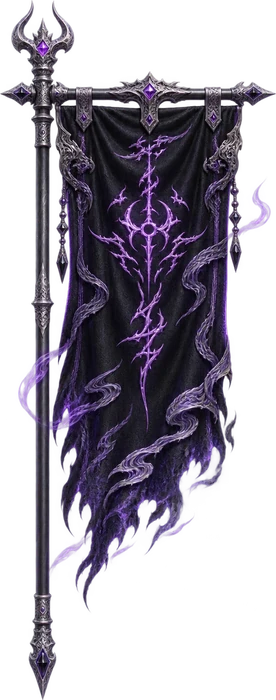
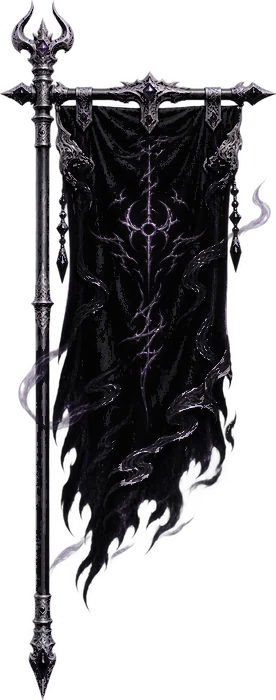
fix(skin): U Minh đen hơn tím, Nữ Oa thêm hiệu ứng + vết nứt trời mới; mặc vào bùng ĐỦ lớp; tiên nhân lúc mở bán không delay
Chủ game xem 2 skin mới:
- U Minh Ma Đế: hạ tím ảnh đứng/ngồi/hào quang/cờ (gốc ở data/backups/u-minh-orig-20261121), khói đen đặc hơn,
  quầng tím trầm + nhạt, hắc viêm lõi đen to hơn; thêm CỘT MA KHÍ ĐEN bốc sau lưng + sương đen bò sát chân.
- Nữ Oa: thêm NGŨ SẮC THẠCH bay vòng quanh đầu, GIỌT NƯỚC xoắn bay lên, CẦU VỒNG BỔ THIÊN quét ~9 s/lần, sao nháy.
  Vết nứt trời màn biến hình: bỏ khối đen hình chữ M (trông như dơi) → vết nứt mảnh, lòng sáng, nhánh rẽ, toác từ giữa.
- Mặc vào thiếu hiệu ứng (Tinh Hà, Bích Lân…): sân ≥15 người budget 'light' → skin luôn vẽ bản rút gọn kể cả lúc bùng.
  Nay trong 8 s bùng vẽ đủ lớp; chỉ rút gọn khi FPS thật tụt (pressured) hoặc sân >30. Nhịp bùng 8 s/nghỉ 32 s giữ nguyên.
- Lúc MỞ BÁN: tiên nhân Khuy Niết/Tư Đồ/Tần Mục/Hải Lam dùng chung nhịp bùng của người mặc → hiệu ứng tắt 32 s/40 s.
  drawOneVisitor bọc withFullFx → hiệu ứng liên tục (1–3 vị, không nặng).
QA: scripts/qa-skin-worn.mjs (server thử 4399: 4 người mặc skin, chụp 40 s + tiên nhân 2–30 s), 1034/1035 test
(1 test đo giờ alchemy đỏ lúc máy bận, chạy riêng đạt).

diff --git a/public/nu-oa-fx.js b/public/nu-oa-fx.js
@@ -106,6 +106,28 @@ function pearls(c,t,stand,layer,alpha,count=6){for(let i=0;i<count;i++){const a=
 function flowers(c,t,count,width,height,alpha,seed=0){
  for(let i=0;i<count;i++){const u=(i*.618+(t+seed)*.0001)%1,x=Math.sin(i*2.399+u*3)*width*(.4+.6*((i*.37)%1))+Math.sin(t*.0012+i)*8,y=-height+u*(height+22),a=Math.sin(u*Math.PI)*alpha,s=4+(i%3)*1.6;
   if(a<.04)continue;c.save();c.globalAlpha*=a*.9;c.translate(x,y);c.rotate(t*.0008+i);c.scale(1,.55+.45*Math.abs(Math.sin(t*.0015+i)));c.drawImage(flowerArt(),-s,-s,2*s,2*s);c.restore();}}
+// 21/11 (chủ game: "skin nữ hơi ít hiệu ứng") — thêm 4 lớp theo đúng chủ đề Vá Trời / nước:
+// NGŨ SẮC THẠCH: 5 viên đá vá trời bay vòng quanh đầu (che khuất trước/sau), đuôi sáng đúng màu.
+function fiveStones(c,t,stand,layer,alpha,light=false){const hy=HALO_Y(stand),tr=light?2:5;
+ for(let i=0;i<5;i++){const at=tt=>{const a=tt*.0007+i*TAU/5;return {x:Math.cos(a)*(52+stand*6),y:hy+8+Math.sin(a)*10+Math.sin(tt*.0013+i)*5,z:Math.sin(a)};};
+  const p=at(t);if((p.z>0)!==(layer==='front'))continue;const k=.75+.25*p.z;
+  for(let j=tr;j>=1;j--){const q=at(t-j*60);glow(c,stoneArt(STONES[i]),q.x-4*k,q.y-4*k,8*k,8*k,alpha*.5*(1-j/(tr+1)));}
+  glow(c,stoneArt(STONES[i]),p.x-8*k,p.y-8*k,16*k,16*k,alpha*(.8+.2*Math.sin(t*.004+i)));glow(c,lightArt(),p.x-2.5,p.y-2.5,5,5,alpha*.9);}}
+// GIỌT NƯỚC xoắn ốc từ mặt nước bay lên rồi tan thành bụi sáng.
+function droplets(c,t,stand,layer,alpha,count=10){const top=HALO_Y(stand)+10;
+ for(let i=0;i<count;i++){const u=((t*.00025)+i/count)%1,a=u*TAU*1.6+i*1.7,z=Math.sin(a);if((z>0)!==(layer==='front'))continue;
+  const R=36-u*14,x=Math.cos(a)*R,y=22+(top-22)*u,s=2.6+(1-u)*1.6,f=Math.sin(u*Math.PI);
+  glow(c,aquaArt(),x-s*1.6,y-s*1.6,s*3.2,s*3.2,alpha*f*.9);img(c,pearlArt(),x-s/2,y-s/2,s,s,alpha*f*.8);}}
+// CẦU VỒNG BỔ THIÊN: ~9 s một lần, cung ngũ sắc quét sau hào quang rồi tan (bùng theo nhịp, không liên tục).
+function rainbowSweep(c,t,stand,alpha){const P=9000,u=(t%P)/P;if(u>.32)return;const k=u/.32,hy=HALO_Y(stand),R=50+stand*8,a=alpha*Math.sin(k*Math.PI);
+ c.save();c.globalCompositeOperation='lighter';c.lineCap='round';
+ STONES.forEach((col,i)=>{c.globalAlpha=a*.55;c.strokeStyle=col;c.lineWidth=2.2;c.beginPath();c.arc(0,hy+12,R+i*3,Math.PI*(1.05+0),Math.PI*(1.05+.9*ease(k*1.4)));c.stroke();});
+ c.restore();
+ const e=Math.PI*(1.05+.9*ease(k*1.4)),hx=Math.cos(e)*(R+6),hyy=hy+12+Math.sin(e)*(R+6);spin(c,sparkArt(),hx,hyy,18,t*.004,a,true);}
+// SAO NHÁY quanh đầu.
+function twinkles(c,t,stand,alpha,count=7,seed=0){const hy=HALO_Y(stand);
+ for(let i=0;i<count;i++){const P=2200+i*310,u=((t+seed*13+i*700)%P)/P;if(u>.35)continue;const f=Math.sin(u/.35*Math.PI),x=Math.sin(i*2.7+seed)*70,y=hy-30+Math.cos(i*1.9)*50;
+  spin(c,sparkArt(),x,y,6+8*f,i,alpha*f,true);}}
 function chestLotus(c,t,stand,alpha){const y=CHEST_Y(stand),p=.8+.2*Math.sin(t*.003);glow(c,violetArt(),-12*p,y-12*p,24*p,24*p,alpha*.5);glow(c,lightArt(),-5,y-5,10,10,alpha*.6);}
 // BỔ THIÊN LINH CHÂU: quầng tím hồng thở, tia điện nhỏ, dòng nước quấn quanh (sau/trước cầu).
 function orb(c,a,t,x,y,{alpha=1,motion=true,size=1,light=false}={}){
@@ -124,12 +146,15 @@ export function drawNuOaAura(c,t,stand,layer,{motion=true,light=false,seed=0}={}
  if(layer==='back'){
   img(c,darkArt(),-85,hy-70,170,200,.68);
   aurora(c,time,hy+30,200,140+stand*20,motion?.9:.6,light?8:16);
-  if(motion){ribbon(c,time,stand,'back',0,1,light?16:36);if(!light)ribbon(c,time,stand,'back',Math.PI,.8,36);waterRings(c,time,stand,'back',1,light?2:3);pearls(c,time,stand,'back',1,light?4:6);}
+  if(motion){if(!light)rainbowSweep(c,time+seed*31,stand,1);ribbon(c,time,stand,'back',0,1,light?16:36);if(!light)ribbon(c,time,stand,'back',Math.PI,.8,36);waterRings(c,time,stand,'back',1,light?2:3);pearls(c,time,stand,'back',1,light?4:6);
+   fiveStones(c,time,stand,'back',1,light);droplets(c,time,stand,'back',1,light?4:10);}
  }else if(motion){
+  droplets(c,time,stand,'front',1,light?4:10);
   waterRings(c,time,stand,'front',1,light?2:3);
   ribbon(c,time,stand,'front',0,1,light?16:36);if(!light)ribbon(c,time,stand,'front',Math.PI,.8,36);
   pearls(c,time,stand,'front',1,light?4:6);chestLotus(c,time,stand,light?.6:1);
   flowers(c,time,light?5:14,64,130+stand*30,1,seed);
+  fiveStones(c,time,stand,'front',1,light);if(!light)twinkles(c,time,stand,1,7,seed);
  }
 }
 // Gear (luôn hiện với người sở hữu): mặt nước + sen · hào quang trăng · Bổ Thiên Linh Châu.
@@ -141,19 +166,31 @@ export function drawNuOaGear(c,a,t,pose,layer,{motion=true,light=false}={}){
 
 const hash=s=>{let h=0;for(const ch of String(s||''))h=(h*31+ch.codePointAt(0))%9973;return h;};
 // 5 vết nứt trời: vị trí + đường gấp khúc (theo seed).
+// 21/11 (chủ game xem: khe nứt cũ là khối đen dày hình chữ M → trông như đàn dơi): nay là VẾT NỨT MẢNH, dài, nghiêng khác nhau,
+// lòng khe là ánh sáng (trời rách lộ ánh tím trắng), có nhánh rẽ; toác dần từ giữa ra hai đầu.
 function rifts(seed,stand){const key='rf'+seed%5+'-'+(stand>.5?1:0);if(art[key])return art[key];const r=rng(seed+5),hy=HALO_Y(stand),L=[];
- for(let i=0;i<5;i++){const cx=(i-2)*38+(r()-.5)*10,cy=hy-78-Math.abs(i-2)*-10-(i%2)*18+(r()-.5)*8,pts=[];let x=cx-20,y=cy+(r()-.5)*6;
-  for(let j=0;j<7;j++){pts.push([x,y]);x+=40/6;y+=(r()-.5)*12;}L.push({cx,cy,pts});}
+ for(let i=0;i<5;i++){const cx=(i-2)*44+(r()-.5)*12,cy=hy-70-(2-Math.abs(i-2))*16-(r())*14,ang=(r()-.5)*1.1+(i-2)*.18,len=46+r()*26,n=13,pts=[];
+  const ca=Math.cos(ang),sa=Math.sin(ang);
+  for(let j=0;j<n;j++){const s=j/(n-1)-.5,off=(r()-.5)*7*(j%2?1:.6);pts.push([cx+ca*s*len-sa*off,cy+sa*s*len+ca*off]);}
+  const br=[];for(let b=0;b<3;b++){const j=2+Math.floor(r()*(n-4)),side=r()<.5?-1:1,bl=8+r()*12,ba=ang+side*(.7+r()*.6);br.push({j,dx:Math.cos(ba)*bl,dy:Math.sin(ba)*bl,kx:(r()-.5)*4,ky:(r()-.5)*4});}
+  L.push({cx,cy,pts,br});}
  return art[key]=L;}
 function drawRift(c,R,open,heal,col){if(open<=0||heal>=1)return;const P=R.pts,n=P.length,a=1-heal,mid=(n-1)/2;
- // khe toác: mép trên/dưới lệch theo bề dày (giữa dày, hai đầu nhọn) × độ mở
- const w=j=>(1-Math.abs(j-mid)/mid)**.8*6*open*(j%2?.7:1),up=P.map(([x,y],j)=>[x,y-w(j)]),dn=P.map(([x,y],j)=>[x,y+w(j)*.8]).reverse(),poly=[...up,...dn];
+ // toác từ giữa ra: đoạn hiện = |j-mid| ≤ open*mid; bề dày giữa ≤2,2
+ const reach=open*mid+.5,vis=P.filter((_,j)=>Math.abs(j-mid)<=reach);if(vis.length<2)return;
+ const w=j=>Math.max(.15,(1-Math.abs(j-mid)/mid))**.9*2.2*open;
+ const idx=P.map((_,j)=>j).filter(j=>Math.abs(j-mid)<=reach);
+ const up=idx.map(j=>[P[j][0],P[j][1]-w(j)]),dn=idx.map(j=>[P[j][0],P[j][1]+w(j)]).reverse(),poly=[...up,...dn];
  const path=()=>{c.beginPath();poly.forEach(([x,y],i)=>c[i?'lineTo':'moveTo'](x,y));c.closePath();};
- glow(c,violetArt(),R.cx-34,R.cy-18,68,36,a*.7*open);
- c.save();c.globalAlpha=a;path();c.fillStyle='#05010f';c.fill();
- c.globalCompositeOperation='lighter';c.lineJoin='round';c.strokeStyle='#a060ff';c.lineWidth=2.4;c.globalAlpha=a*.75;path();c.stroke();c.strokeStyle='#f4e8ff';c.lineWidth=.8;c.globalAlpha=a;path();c.stroke();
- // nhánh nứt nhỏ từ mép
- c.strokeStyle='#c090ff';c.lineWidth=.8;c.globalAlpha=a*.8*open;for(let j=1;j<n-1;j+=2){const [x,y]=P[j],d=j%4===1?-1:1;c.beginPath();c.moveTo(x,y+d*w(j)*.8);c.lineTo(x+4,y+d*(w(j)+5));c.lineTo(x+2,y+d*(w(j)+9));c.stroke();}
+ const line=()=>{c.beginPath();idx.forEach((j,i)=>c[i?'lineTo':'moveTo'](P[j][0],P[j][1]));};
+ glow(c,violetArt(),R.cx-30,R.cy-16,60,32,a*.45*open);
+ c.save();c.lineJoin='round';c.lineCap='round';
+ c.globalAlpha=a*.85;path();c.fillStyle='#1a0838';c.fill(); // mép rách tối mảnh
+ c.globalCompositeOperation='lighter';c.strokeStyle='#8a50ff';c.lineWidth=3.2*open;c.globalAlpha=a*.35;line();c.stroke(); // quầng
+ c.strokeStyle='#e8d8ff';c.lineWidth=1.1*open+.3;c.globalAlpha=a;line();c.stroke(); // lòng khe sáng
+ c.strokeStyle='#ffffff';c.lineWidth=.45;c.globalAlpha=a*open;line();c.stroke();
+ // nhánh rẽ
+ c.strokeStyle='#c8a8ff';c.lineWidth=.7;c.globalAlpha=a*.85*clamp((open-.4)/.6);for(const b of R.br){if(Math.abs(b.j-mid)>reach)continue;const [x,y]=P[b.j];c.beginPath();c.moveTo(x,y);c.lineTo(x+b.dx*.55+b.kx,y+b.dy*.55+b.ky);c.lineTo(x+b.dx,y+b.dy);c.stroke();}
  c.restore();
  if(heal>0)glow(c,stoneArt(col),R.cx-40*(1-heal*.4),R.cy-40*(1-heal*.4),80*(1-heal*.4),80*(1-heal*.4),Math.sin(heal*Math.PI)*1.2);
 }

diff --git a/public/u-minh-fx.js b/public/u-minh-fx.js
@@ -27,16 +27,17 @@ const rng=seed=>{let s=seed%2147483647||7;return ()=>((s=s*16807%2147483647)-1)/
 
 function surface(w,h,draw){const canvas=makeSurface(w,h);if(!canvas)return null;draw(canvas.getContext('2d'),w/2,h/2);return canvas;}
 function radial(size,stops){return surface(size,size,(c,r)=>{const g=c.createRadialGradient(r,r,1,r,r,r);for(const [at,color] of stops)g.addColorStop(at,color);c.fillStyle=g;c.fillRect(0,0,size,size);});}
-const smokeArt=()=>art.smoke??=radial(128,[[0,'#06000ee0'],[.45,'#12021e90'],[1,'#00000000']]);
-const violetArt=()=>art.violet??=radial(128,[[0,'#f0d8ffe0'],[.3,'#b060ff90'],[.65,'#6a20c038'],[1,'#30087000']]);
+// 21/11 (chủ game: "màu đen phải nhiều hơn màu tím"): khói đặc + đen hơn, quầng tím trầm + nhạt hơn; ảnh skin/hào quang/cờ đã hạ tím (bản gốc ở data/backups/u-minh-orig-20261121).
+const smokeArt=()=>art.smoke??=radial(128,[[0,'#000000f4'],[.45,'#05000ac0'],[.8,'#02000440'],[1,'#00000000']]);
+const violetArt=()=>art.violet??=radial(128,[[0,'#d8b0ffc0'],[.3,'#7a30d070'],[.65,'#3a0a7a28'],[1,'#1a043800']]);
 const coreArt=()=>art.core??=radial(64,[[0,'#ffffff'],[.3,'#e0b8ff'],[.7,'#9040ff60'],[1,'#6020c000']]);
 const sparkArt=()=>art.spark??=surface(64,64,(c,r)=>{c.translate(r,r);
  for(const [w,h] of [[28,2.2],[2.2,28]]){const g=c.createRadialGradient(0,0,0,0,0,28);g.addColorStop(0,'#ffffff');g.addColorStop(.4,'#d8a8ffa0');g.addColorStop(1,'#9040ff00');c.fillStyle=g;c.beginPath();c.ellipse(0,0,w,h,0,0,TAU);c.fill();}
  const g=c.createRadialGradient(0,0,0,0,0,9);g.addColorStop(0,'#ffffff');g.addColorStop(1,'#ffffff00');c.fillStyle=g;c.beginPath();c.arc(0,0,9,0,TAU);c.fill();});
 // Lưỡi hắc viêm: viền tím sáng, lõi đen (vẽ thường, không cộng sáng → lửa ĐEN).
 const flameArt=()=>art.flame??=surface(32,64,(c)=>{const tongue=(s,col)=>{c.beginPath();c.moveTo(16,62);c.bezierCurveTo(16-13*s,52,16-9*s,26,16+2*s,4+ (1-s)*20);c.bezierCurveTo(16+6*s,24,16+13*s,46,16,62);c.closePath();c.fillStyle=col;c.fill();};
- const g=c.createLinearGradient(0,64,0,0);g.addColorStop(0,'#c070ffe0');g.addColorStop(.6,'#8a30ffb0');g.addColorStop(1,'#b070ff00');tongue(1,g);
- const k=c.createLinearGradient(0,64,0,10);k.addColorStop(0,'#05000af0');k.addColorStop(.7,'#12022af0');k.addColorStop(1,'#20063a00');tongue(.62,k);});
+ const g=c.createLinearGradient(0,64,0,0);g.addColorStop(0,'#9a50e0c0');g.addColorStop(.6,'#5a1aa090');g.addColorStop(1,'#40108000');tongue(1,g);
+ const k=c.createLinearGradient(0,64,0,10);k.addColorStop(0,'#000000fa');k.addColorStop(.7,'#06000ef4');k.addColorStop(1,'#10031c00');tongue(.8,k);});
 // Mắt xích (1 mắt dẹt nhìn thẳng): khung kim loại tối + vệt sáng tím.
 const linkArt=()=>art.link??=surface(24,14,(c)=>{c.lineWidth=3;c.strokeStyle='#241c30';c.beginPath();c.ellipse(12,7,9.5,4.5,0,0,TAU);c.stroke();c.lineWidth=1;c.strokeStyle='#c8a0ffd0';c.beginPath();c.ellipse(12,6.4,9.5,4.3,0,Math.PI*1.1,Math.PI*1.9);c.stroke();});
 const emberArt=()=>art.ember??=radial(16,[[0,'#ffffff'],[.3,'#d090ff'],[1,'#8020ff00']]);
@@ -66,7 +67,7 @@ function haloLayer(c,a,t,cy,width,{alpha=1,pulse=0,motion=true}={}){
  if(!a?.halo)return;const k=1+pulse+(motion?Math.sin(t*.0019)*.014:0),w=width*k,h=w*a.halo.naturalHeight/a.halo.naturalWidth;
  img(c,smokeArt(),-w*.55,cy-w*.55,w*1.1,w*1.1,.3*alpha);
  c.save();c.translate(0,cy);c.rotate(motion?-t*.00005:0);img(c,a.halo,-w*UM_RING.x,-h*UM_RING.y,w,h,alpha);c.restore();
- glow(c,violetArt(),-w*.42,cy-w*.42,w*.84,w*.84,alpha*(motion?.22+.14*Math.sin(t*.011)*Math.sin(t*.0037):.25));
+ glow(c,violetArt(),-w*.42,cy-w*.42,w*.84,w*.84,alpha*(motion?.08+.06*Math.sin(t*.011)*Math.sin(t*.0037):.1));
 }
 // U MINH MÔN: hố đen + viền tím + hạt sáng xoáy HÚT vào tâm.
 function abyssGate(c,t,width,alpha,{motion=true,light=false}={}){
@@ -82,7 +83,7 @@ function abyssGate(c,t,width,alpha,{motion=true,light=false}={}){
 function blackFlames(c,t,layer,alpha,count=10,spread=40,scale=1){
  for(let i=0;i<count;i++){const ang=i/count*TAU+Math.sin(i*1.7)*.3,front=Math.sin(ang)>0;if(front!==(layer==='front'))continue;
   const per=1300+i*170,u=((t+i*397)%per)/per,life=Math.sin(u*Math.PI),x=Math.cos(ang)*spread,y=22+Math.sin(ang)*spread*.26,h=(18+(i%3)*8)*scale*(.5+.7*life),w=h*.5,sk=Math.sin(t*.006+i)*.2;
-  glow(c,violetArt(),x-w,y-h*.8,w*2,h,alpha*life*.35);c.save();c.globalAlpha*=alpha*Math.min(1,life*1.6);c.translate(x,y);c.transform(1,0,sk,1,0,0);c.drawImage(flameArt(),-w/2,-h,w,h);c.restore();}
+  glow(c,violetArt(),x-w,y-h*.8,w*2,h,alpha*life*.12);c.save();c.globalAlpha*=alpha*Math.min(1,life*1.6);c.translate(x,y);c.transform(1,0,sk,1,0,0);c.drawImage(flameArt(),-w/2,-h,w,h);c.restore();}
 }
 // XÍCH U MINH: mắt xích đặt dọc xoắn ốc; mắt chẵn nằm dẹt, mắt lẻ xoay cạnh (co ngang) → giống xích thật.
 function chainHelix(c,t,stand,layer,alpha,ph=0,links=46){
@@ -101,6 +102,12 @@ function wisps(c,t,stand,alpha,count=4,light=false){
  for(let i=0;i<count;i++){for(let j=light?3:7;j>=0;j--){const p=wispPos(t-j*45,i,stand,bx,by),s=j?4.5*(1-j/9):6.5;glow(c,j?violetArt():coreArt(),p.x-s,p.y-s,2*s,2*s,alpha*p.a*(j?.7*(1-j/8):1));}
   const u=wispPos(t,i,stand,bx,by).u;if(u>.92)pull=Math.max(pull,(u-.92)/.08);}
  return pull;}
+// 21/11: CỘT MA KHÍ ĐEN — cụm khói đen bốc từ chân lên quá đầu sau lưng (vẽ thường → đen thật, không cộng sáng).
+function blackPlume(c,t,stand,alpha,count=9){const top=HALO_Y(stand)-70;
+ for(let i=0;i<count;i++){const u=((t*.00018)+i/count)%1,x=Math.sin(i*2.1+u*4+t*.0004)*(22+u*30),y=20+(top-20)*u,s=40+u*70,a=alpha*Math.sin(u*Math.PI)**.7;img(c,smokeArt(),x-s/2,y-s/2,s,s,a*.75);}}
+// Sương đen bò sát đất phía trước chân (che mép dưới áo → người như đứng trong ma vụ).
+function groundFog(c,t,alpha,count=6){for(let i=0;i<count;i++){const u=((t*.00012)+i/count)%1,x=(u-.5)*150*(i%2?1:-1),s=46+Math.sin(u*Math.PI)*24;
+ c.save();c.translate(x,24);c.scale(1,.38);img(c,smokeArt(),-s/2,-s/2,s,s,alpha*Math.sin(u*Math.PI)*.8);c.restore();}}
 function embers(c,t,count,width,height,alpha){for(let i=0;i<count;i++){const u=(i*.618+t*.00022)%1,x=Math.sin(i*2.4+u*5)*width*(.5+.5*((i*.37)%1)),y=20-u*height,a=Math.sin(u*Math.PI)*alpha;glow(c,emberArt(),x-1.6,y-1.6,3.2,3.2,a);}}
 // VẠN HỒN PHIÊN: cán đứng yên; vải cắt dải ngang, lệch sóng (đuôi bay nhiều hơn phần gần thanh ngang).
 function banner(c,a,t,stand,{alpha=1,motion=true,rise=0,light=false,pull=0}={}){
@@ -114,18 +121,19 @@ function banner(c,a,t,stand,{alpha=1,motion=true,rise=0,light=false,pull=0}={}){
  for(let r=0;r<rows;r++){const v=(r+.5)/rows,off=motion?(Math.sin(v*5-t*.004)*4+Math.sin(v*9-t*.007)*1.6)*v:0;
   c.drawImage(im,cut,clothTop+r*rh,iw-cut,rh+1,left+w*CLOTH_U+off,top+h*CLOTH_V+r*dh,w*(1-CLOTH_U),dh+.6);}
  c.restore();
- const cx=left+w*.6,cy=top+h*.45;glow(c,violetArt(),cx-w*.6,cy-h*.3,w*1.2,h*.6,alpha*(.18+.5*pull));
+ const cx=left+w*.6,cy=top+h*.45;glow(c,violetArt(),cx-w*.6,cy-h*.3,w*1.2,h*.6,alpha*(.05+.45*pull));
  if(motion&&!rise){const u=(t*.0005)%1;glow(c,violetArt(),cx+Math.sin(u*6)*6-4,top+h*.85-u*h*.5-4,8,8,alpha*Math.sin(u*Math.PI)*.8);}
 }
 
 export function drawUMinhAura(c,t,stand,layer,{motion=true,light=false,seed=0}={}){
  const time=motion?t:0,hy=HALO_Y(stand);
  if(layer==='back'){
-  img(c,smokeArt(),-95,hy-80,190,220,.8);
-  if(motion){miasma(c,time,hy+20,light?.6:1,light?3:5);
+  img(c,smokeArt(),-105,hy-90,210,240,.95);
+  if(motion){blackPlume(c,time,stand,1,light?5:9);miasma(c,time,hy+20,light?.6:1,light?3:5);
    if(!light){const e=eyeCycle(time+seed);demonEye(c,0,hy-62,64,e.open,.95,1,e.look);chainHelix(c,time,stand,'back',1,0);chainHelix(c,time,stand,'back',.9,Math.PI);}
    blackFlames(c,time,'back',1,light?6:12,40);}
  }else if(motion){
+  groundFog(c,time,1,light?3:6);
   blackFlames(c,time,'front',1,light?6:12,40);
   if(!light){chainHelix(c,time,stand,'front',1,0);chainHelix(c,time,stand,'front',.9,Math.PI);}
   wisps(c,time,stand,1,light?2:4,light);

diff --git a/public/scene.js b/public/scene.js
@@ -752,7 +752,10 @@ loadPrestigeArt(this);syncHallWar(this,state);syncMountRealm(this,state);syncBao
     this.effects=this.effects.filter(e=>t-e.start<e.duration);if(this.luxuryQueue?.length&&!this.effects.some(e=>e.luxury||e.effect==='breakthrough'))this.addEffect(this.luxuryQueue.shift());if(!solo&&this.fxQueue?.length&&this.effects.filter(x=>x.kind&&x.kind!=='blessing').length<2)this.addEffect(this.fxQueue.shift());drawNhapMon(this,c,t);for(const e of this.effects)this.drawEffect(c,e,t,'front');drawLuanHoiOmen(this,c,t,H); /* 20/11: Thiên Địa Dị Tượng (mọi chế độ sân) */if(!solo)drawTitlePlaques(this,c,t,this.stateServerNow||Date.now()); /* 21/11: danh hiệu chữ trên đầu, phân loại */drawDoKiep(this,c,t,H,'front');drawDoKiepHud(this,c,t,H);if(this.limStrikes?.length){const pn=performance.now();this.limStrikes=this.limStrikes.filter(x=>pn-x.start<LIMITED_STRIKE_MS);for(const x of this.limStrikes){const a=this.targets?.find(q=>q.id===x.user);if(!a)continue;drawLimitedStrike(c,x.id,{x:a.x,y:a.y},{x:x.tx,y:H*x.tyR+60},(pn-x.start)/LIMITED_STRIKE_MS,t,x.seed,{light:this.budget?.level==='light',scale:Math.max(1.15,(a.scale||1.5)/1.2)});}} /* 20/11: đòn thần khí GIỚI HẠN */drawDebrisPool(this,c,t,900,H);drawSocialStage(this,c,t,'front',solo);drawRace(this,c,t,'front');if(this.raceStatus?.phase==='running')drawEventGiftFx(this,c,t,'front','race');drawWar(this,c,t,'front');drawAlchemy(this,c,t,'front');drawMaze(this,c,t,'front');drawAlchemySoot(this,c,t);if(!this.raceStatus?.active)drawBondLinks(this,c,t);this.atmosphere(c,t,'front');if(!this.raceStatus?.active&&!this.alcStatus?.active&&!mazeOn(this))drawEngagementReactions(this,c,t);this.drawNames(c,t);drawTease(this,c,t);if(!solo)drawBonk(this,c,t);if(!this.raceStatus?.active&&solo?.kind!=='gift')this.mover?.drawBubbles(c,this.targets,t);c.setTransform(sx,0,0,sy,0,0);this.atmosphere(c,t,'screen');drawLoveTower(this,c,t,H);const courtScene=!this.raceStatus?.active&&this.effects.find(e=>isCourtTransform(e.transform));if(courtScene)drawCourtTransformTitle(c,courtScene.transform,(t-courtScene.start)/courtScene.duration,H,REVEAL_AT);drawEventDonations(this,c,t,H);drawWarResult(this,c,t);drawAlchemyResult(this,c,t);drawMazeResult(this,c,t);if(this.heavenStrike){const hs=this.heavenStrike,k=(t-hs.start)/1000;if(k*1000>HEAVEN_STRIKE_MS)this.heavenStrike=null;else{const tg=this.targets.find(x=>x.id===hs.user),cm=this.lastCam||{s:1,x:0,y:0};drawHeavenStrike(c,hs.profile,k,{W:900,H,x:tg?cm.x+tg.x*cm.s:450,y:tg?cm.y+tg.y*cm.s:H*.72,scale:(tg?.scale||1.42)*cm.s},{light:this.budget?.level==='light',reducedFlash:this.reduceFlash,name:hs.name,loss:hs.loss});}}drawAbyssHealth(c,this.boss,Date.now(),H);if(!this.raceStatus?.active)this.drawAscensionTitle(c,t);for(const e of this.effects)if(!this.raceStatus?.active&&e.petAward)drawPetArrivalTitle(c,e,t,H,this.motion);
   }
 }
-function drawOneVisitor(scene,c,ev,t,H){
+function drawOneVisitor(scene,c,ev,t,H){withFullFx(scene,()=>drawOneVisitorRaw(scene,c,ev,t,H));}
+// 21/11 (chủ game): lúc MỞ BÁN skin tiên nhân phải đủ hiệu ứng liên tục — trước đây Khuy Niết/Tư Đồ/Tần Mục/Hải Lam dùng chung
+// drawXxxAdornment nên bị nhịp skinFxOn (bùng 8 s / nghỉ 32 s, dành cho NGƯỜI MẶC) và bản rút gọn khi sân đông. Chỉ 1–3 vị → không nặng.
+function drawOneVisitorRaw(scene,c,ev,t,H){
   if(!drawTudoVisitor(scene,c,ev,t,H)&&!drawKhuyVisitor(scene,c,ev,t,H)&&!drawViemVisitor(scene,c,ev,t,H)&&!drawSeaVisitor(scene,c,ev,t,H)&&!drawDoraVisitor(scene,c,ev,t,H)&&!drawLinWanVisitor(c,ev,scene,t,H,scene.signatureSprites))drawVisitor(c,ev,scene.armedVisitorSprites||scene.visitorSprites,t,H,scene.signatureSprites,scene.shendeArt);
 }
 // 20/11: lượt nhiều tiên nhân — 3 vị đứng trên đỉnh Tiên Nhân Đài (vị chính ở giữa), dưới chân là ảnh món quà × số lượng.

diff --git a/public/court-art.js b/public/court-art.js
@@ -4,8 +4,8 @@ import {drawBlackGoldAura,drawBlackGoldGear,drawBlackGoldReveal} from './black-g
 import {drawKarmaAura,drawKarmaGear,drawKarmaReveal} from './karma-fx.js?v=karma-halo-v5';
 import {drawTinhHaAura,drawTinhHaGear,drawTinhHaReveal} from './tinh-ha-fx.js?v=20261119';
 import {drawBichLanAura,drawBichLanGear,drawBichLanReveal} from './bich-lan-fx.js?v=20261119-gear';
-import {drawNuOaAura,drawNuOaGear,drawNuOaReveal} from './nu-oa-fx.js?v=20261121';
-import {drawUMinhAura,drawUMinhGear,drawUMinhReveal} from './u-minh-fx.js?v=20261121';
+import {drawNuOaAura,drawNuOaGear,drawNuOaReveal} from './nu-oa-fx.js?v=20261121b';
+import {drawUMinhAura,drawUMinhGear,drawUMinhReveal} from './u-minh-fx.js?v=20261121b';
 import {feedbackBudget} from './cinematic-feedback.js';
 import {ownsGear} from './skin-gear.js';
 import {skinFxOn} from './performance.js';
@@ -81,9 +81,13 @@ export function drawCourtAdornment(scene,c,target,t,layer){
   // Màn biến hình Nhân Quả tự vẽ hào quang + thương suốt màn → tránh vẽ chồng.
   const karmaShow=scene.effects?.some(e=>e.user===p.id&&(e.transform===KARMA_VISITOR.kind||e.transform===TINH_HA_VISITOR.kind||e.transform===BICH_LAN_VISITOR.kind||e.transform===NU_OA_VISITOR.kind||e.transform===U_MINH_VISITOR.kind)&&t<e.start+e.duration);
   let seed=0;for(const ch of String(p.id))seed=(seed*31+ch.codePointAt(0))%997;
-  if(FX[spec?.kind]&&!revealing&&!karmaShow&&skinFxOn(scene,p,t))FX[spec.kind].aura(c,t,pose.stand||0,layer,{motion,light,seed,art:spec.artwork?signatureArt(spec):null});
+  // 21/11 (chủ game: Tinh Hà/Bích Lân "mặc vào thiếu hiệu ứng lum la"): sân ≥15 người là budget 'light' → trước đây skin LUÔN vẽ bản rút gọn,
+  // kể cả lúc bùng. Nay trong 8 s bùng (mỗi người lệch pha, tối đa 8 người premium → ~2 người cùng bùng) vẽ ĐỦ lớp;
+  // chỉ rút gọn khi FPS thật tụt (pressured) hoặc sân >30 người. Lúc nghỉ: chỉ pháp bảo, bản nhẹ như cũ.
+  const burst=skinFxOn(scene,p,t),fullBurst=burst&&!scene.budget?.pressured&&!scene.minimalCrowd,fxLight=fullBurst?false:light;
+  if(FX[spec?.kind]&&!revealing&&!karmaShow&&burst)FX[spec.kind].aura(c,t,pose.stand||0,layer,{motion,light:fxLight,seed,art:spec.artwork?signatureArt(spec):null});
   const unlocking=scene.effects?.some(e=>e.user===p.id&&e.hacKimArtifact&&t<e.start+e.duration);
-  if(gear&&!unlocking&&!revealing&&!karmaShow)FX[gear.kind].gear(c,signatureArt(gear),t,pose,layer,{motion,light});
+  if(gear&&!unlocking&&!revealing&&!karmaShow)FX[gear.kind].gear(c,signatureArt(gear),t,pose,layer,{motion,light:fxLight});
   c.restore();return;
  }
  if(!spec)return;
